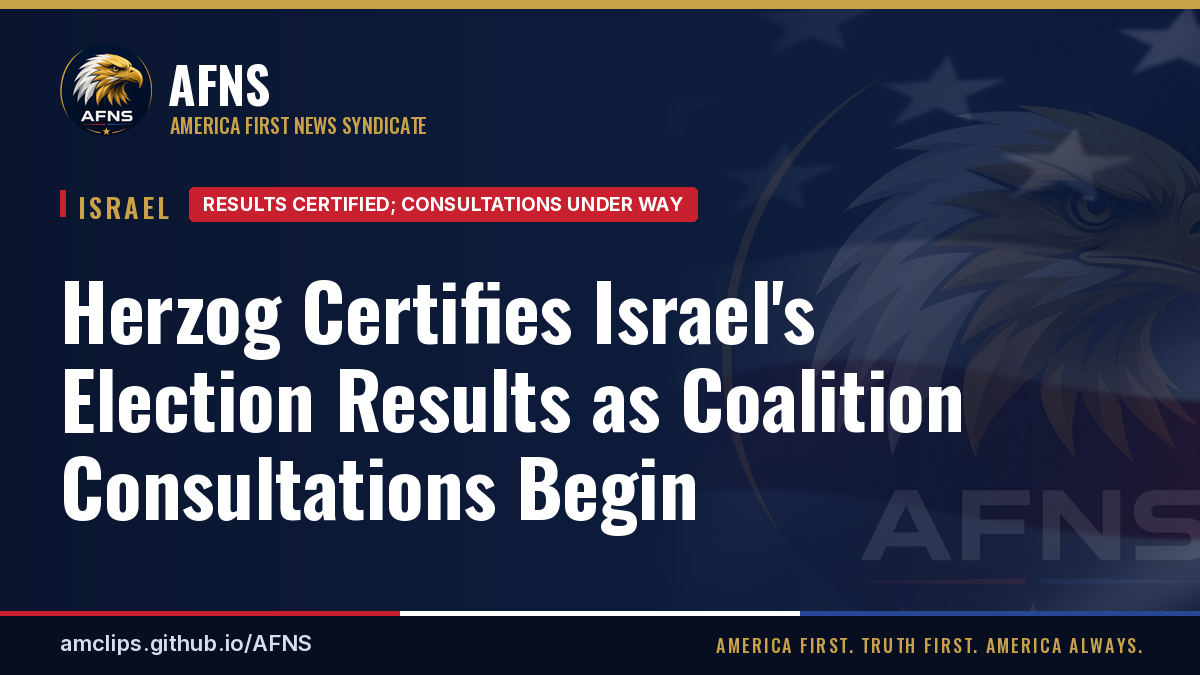
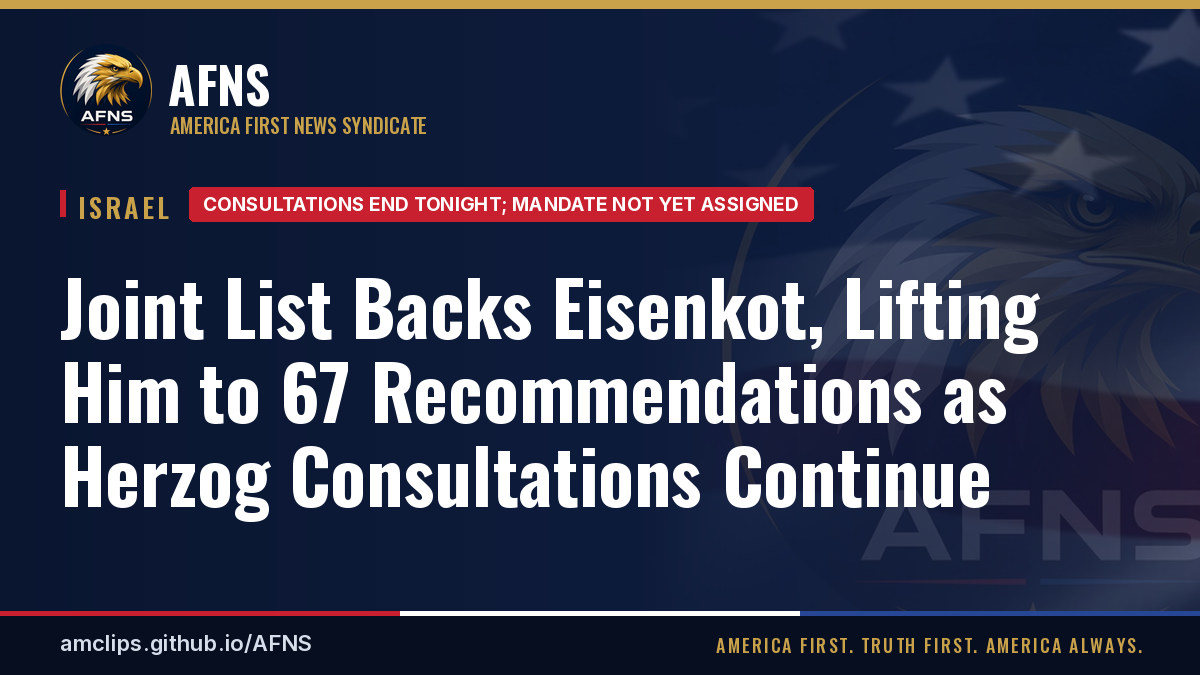
Nov 5 11 AM: Pentagon-ready-for-Iran report, Herzog consultations update, Gaza line (#38)

Changed region(s): [[0.0308, 0.4044, 0.8633, 0.8089], [0.1542, 0.28, 0.6783, 0.3422]]

diff --git a/content/israel/report-pentagon-ready-resume-iran-strikes-if-trump-orders.md b/content/israel/report-pentagon-ready-resume-iran-strikes-if-trump-orders.md
@@ -1,0 +1,45 @@
+---
+title: "Report: Pentagon Ready to Resume Iran Strikes if Trump Orders"
+desk: israel
+date: 2026-11-05
+summary: "The New York Times, citing unnamed Pentagon officials and commanders speaking Wednesday, says thousands of U.S. air and naval forces on more than a dozen ships and at regional and U.S. bases are poised to resume major combat operations against Iran if President Trump orders it. Al Jazeera's live blog carries the report; Iran's foreign minister called Saudi, Omani and Qatari counterparts. Not confirmed by the White House."
+featured: true
+priority: 8
+image: "img/stories/report-pentagon-ready-resume-iran-strikes-if-trump-orders.jpg"
+image_alt: "USS Nimitz (CVN 68) transits the Persian Gulf, Aug. 13, 2013 (file image)"
+image_credit: "U.S. Navy / Wikimedia Commons"
+image_source_url: "https://commons.wikimedia.org/wiki/File%3AThe_aircraft_carrier_USS_Nimitz_%28CVN_68%29_transits_the_Persian_Gulf_Aug._13%2C_2013_130813-N-IB033-444.jpg"
+image_license: "Public domain"
+status: "Reported by NYT via unnamed officials; not confirmed by the White House"
+key_points:
+  - The New York Times, dated Nov. 5, 2026, says Pentagon officials and commanders told the paper Wednesday that U.S. forces are poised to resume major combat against Iran on Trump's orders
+  - Officials, speaking anonymously on operational matters, say U.S. and Israeli plans cover a short, intensive campaign that could hit energy, nuclear, and missile and drone targets
+  - Al Jazeera's Nov. 5 live blog carries the NYT report and says Iran FM Abbas Araghchi held calls with Saudi, Omani and Qatari counterparts amid strike fears
+  - On election night Nov. 4, Trump told Fox News the U.S. had practically wiped Iran out but had not finished the job — quote, maybe I will, maybe I won't
+  - That contrasts with his Financial Times interview saying the U.S. has no immediate plans to strike because, quote, we seem to be getting everything we want
+  - Not confirmed by the White House; no presidential order for renewed major combat has been announced
+sources:
+  - New York Times (via DNYUZ syndication): Political Losses Deepen the Stakes as Trump Contemplates Renewed Iran Attack | https://dnyuz.com/2026/11/05/political-losses-deepen-the-stakes-as-trump-contemplates-renewed-iran-attack/
+  - NYT URL path (Nov. 5, 2026): trump-iran-war-midterm-elections | https://www.nytimes.com/2026/11/05/us/politics/trump-iran-war-midterm-elections.html
+  - Al Jazeera live blog, Nov. 5: Tehran contacts Oman, Qatar and Saudi amid US strike fears | https://www.aljazeera.com/news/liveblog/2026/11/5/iran-war-live-trump-admits-war-caused-election-loss-but-had-to-do-it
+  - JFeed summary of the NYT report | https://www.jfeed.com/news/us-forces-ready-iran-combat-trump-order
+  - Mediaite / Yahoo: Fox News election-night interview with the maybe I will, maybe I won't line | https://www.yahoo.com/news/politics/articles/fox-news-anchor-presses-trump-051901563.html
+  - Fox News live updates, Nov. 4: Trump on further Iran strikes | https://www.foxnews.com/live-news/iran-war-news-trump-elections-oil-prices-november-4
+---
+
+**Status: Reported; not confirmed by the White House.**
+
+The [New York Times](https://www.nytimes.com/2026/11/05/us/politics/trump-iran-war-midterm-elections.html) reported on **Nov. 5, 2026** — citing unnamed Pentagon officials and military commanders who spoke **Wednesday** — that thousands of American air and naval forces on more than a dozen ships and at bases around the Middle East and in the United States are poised to resume major combat operations against Iran if President Donald Trump orders it. [DNYUZ](https://dnyuz.com/2026/11/05/political-losses-deepen-the-stakes-as-trump-contemplates-renewed-iran-attack/) and [JFeed](https://www.jfeed.com/news/us-forces-ready-iran-combat-trump-order) carry the same account. Officials, speaking on condition of anonymity to discuss operational matters, said the U.S. and Israeli militaries have drawn up plans for a short, intensive campaign whose likely targets include energy infrastructure, nuclear facilities, and missile and drone arsenals.
+
+[Al Jazeera's Nov. 5 live blog](https://www.aljazeera.com/news/liveblog/2026/11/5/iran-war-live-trump-admits-war-caused-election-loss-but-had-to-do-it) relays the Times report and says Iranian Foreign Minister Abbas Araghchi held separate calls with his counterparts in Saudi Arabia, Oman and Qatar amid mounting fears of a U.S. attack.
+
+## Trump's conflicting signals
+
+On election night **Nov. 4**, Trump told Fox News (Martha MacCallum and Bret Baier) that the United States had "wiped them out, practically," but had not "finished the job," adding: "maybe I will, maybe I won't" ([Mediaite / Yahoo](https://www.yahoo.com/news/politics/articles/fox-news-anchor-presses-trump-051901563.html), [Fox News live](https://www.foxnews.com/live-news/iran-war-news-trump-elections-oil-prices-november-4)). That sits alongside his earlier Financial Times interview remark that the United States has no immediate plans to strike Iran because "we seem to be getting everything we want."
+
+**No White House confirmation** of a decision to resume major combat has been issued. Limited U.S. strikes on Iranian missiles around Qeshm Island earlier this week were described by U.S. officials as defensive, not a return to major operations. Related: [U.S. Officials: Limited 'Defensive' Strikes Hit Iranian Missiles on Qeshm Island](/israel/report-us-strikes-iranian-missile-launcher-qeshm-island/).
+
+## Related
+
+- [Report: U.S. Tells Gulf States to Prepare for Iran Campaign After Midterms as Regional Powers Talk in Tehran](/israel/us-israel-signal-iran-campaign-after-midterms-tehran-talks/)
+- [Vance Says Iran War Cost Republicans the Midterms](/israel/vance-says-iran-war-cost-republicans-midterms-cites-israel-relationship/)

diff --git a/content/israel/israel-briefing-2026-11-05.md b/content/israel/israel-briefing-2026-11-05.md
@@ -16,8 +16,13 @@ key_points:
   - Trump says ~$4B a year in U.S. military aid stops after this year; AP and Reuters say an abrupt cutoff is unlikely without Congress (see linked story)
   - WSJ reports small unpublicized U.S. strikes on Iran, including Qeshm; Trump told the FT he has no plans to strike (JINSA, AP)
   - Election officials reject Netanyahu's claim Qatar stole the election; Ayman Odeh is suspected of receiving foreign funds (American Israelite, Jerusalem Post)
+  - UPDATE 11 AM CT - At least four killed in central/southern Gaza Thursday, including a child in Bureij (medical sources via Al Jazeera)
+  - UPDATE 11 AM CT - Likud/Yashar meet Herzog tonight; Reuters deadline Nov. 11; see Herzog story
   - UPDATE 9 AM CT - Joint List recommendation lifts Eisenkot to 67 vs 46 (Ynet); see Herzog story
 sources:
+  - Al Jazeera: Four people including a child killed in Israeli attacks on Gaza | https://www.aljazeera.com/news/2026/11/5/four-people-including-a-child-killed-in-israeli-attacks-on-gaza
+  - Jerusalem Post: Eisenkot expected to secure mandate | https://www.jpost.com/israel-election-2026/article-913989
+  - Reuters via StreetInsider: Herzog deadline Nov. 11 | https://www.streetinsider.com/Reuters/Netanyahus+position+weakens+as+ultra-Orthodox+party+withholds+support/27293802.html
   - Jerusalem Post: Election live updates, Nov. 5 | https://www.jpost.com/israel-election-2026/2026-11-05/live-updates-913880
   - Reuters: Trump says U.S. will stop paying Israel after year-end | https://www.reuters.com/5f374b32b07b/world/middle-east/trump-says-us-will-stop-paying-israel-after-year-end-2026-11-03/
   - AP: Trump Israel military aid | https://apnews.com/article/trump-israel-military-aid-hardware-5cad93330300b2d45a9665d5eccb2ab2
@@ -33,7 +38,9 @@ sources:
 
 **Status: Daily briefing.** Each item names its source.
 
-**Update, 9 AM CT:** The Joint List recommended Eisenkot, lifting him to 67 recommendations vs 46 for Netanyahu (Ynet). Details: [Joint List Backs Eisenkot, Lifting Him to 67 Recommendations as Herzog Consultations Continue](/israel/herzog-certifies-election-results-coalition-consultations-begin/).
+**Update, 11 AM CT:** Medical sources told Al Jazeera that Israeli strikes and gunfire killed at least four Palestinians in central and southern Gaza on Thursday, including a child in Bureij ([Al Jazeera](https://www.aljazeera.com/news/2026/11/5/four-people-including-a-child-killed-in-israeli-attacks-on-gaza)).
+
+**Update, 9 AM CT:** The Joint List recommended Eisenkot, lifting him to 67 recommendations vs 46 for Netanyahu (Ynet). Details: [Joint List Backs Eisenkot, Lifting Him to 67 Recommendations as Herzog Consultations Continue](/israel/herzog-certifies-election-results-coalition-consultations-begin/). Also: [Herzog 11 AM update — consultations end tonight](/israel/herzog-certifies-election-results-coalition-consultations-begin/).
 
 For the full consultation timeline, see [Joint List Backs Eisenkot, Lifting Him to 67 Recommendations as Herzog Consultations Continue](/israel/herzog-certifies-election-results-coalition-consultations-begin/).
 
@@ -46,6 +53,8 @@ Mansour Abbas told President Herzog that Ra'am fully supports Trump's Gaza peace
 Trump says roughly $4 billion a year in U.S. military aid to Israel stops after this year, that arms sales continue, and that Netanyahu agreed ([Reuters](https://www.reuters.com/5f374b32b07b/world/middle-east/trump-says-us-will-stop-paying-israel-after-year-end-2026-11-03/), [AP](https://apnews.com/article/trump-israel-military-aid-hardware-5cad93330300b2d45a9665d5eccb2ab2), [NY Post](https://nypost.com/2026/11/04/us-news/us-to-withdraw-4b-in-israel-aid-as-trump-weighs-next-move-in-iran-war/)). The current agreement runs to September 2028, so AP and Reuters say an abrupt cutoff is unlikely without Congress. A U.S. official told the NY Post the phase-down was negotiated for months and could begin in October 2027. Full story: [Report: Trump Says U.S. Military Aid to Israel Will End This Year](/israel/report-trump-says-us-military-aid-israel-will-end-this-year/).
 
 ## Iran: quiet small strikes while talks drag on
+
+**Update, 11 AM CT:** The New York Times reports U.S. forces are poised to resume major combat against Iran if Trump orders it (unnamed Pentagon officials; not confirmed by the White House). Full story: [Report: Pentagon Ready to Resume Iran Strikes if Trump Orders](/israel/report-pentagon-ready-resume-iran-strikes-if-trump-orders/).
 
 The Wall Street Journal has reported that the U.S. carried out small, unpublicized airstrikes on Iran, including on Qeshm Island on Nov. 2 ([JINSA update](https://jinsa.org/wp-content/uploads/2026/11/Iran-War-Update-11.4.26.pdf), [AP](https://apnews.com/article/mideast-news-november-3-2026-9ae5cec3d1f9cde02652f52f7f80fbce)). Trump told the Financial Times he has no plans to strike Iran because "we seem to be getting everything we want." Qatar is still mediating; Iran wants China to guarantee any deal. U.S. officials remain skeptical of Israel's chemical-weapons warning. Related: [U.S. Officials: Limited 'Defensive' Strikes Hit Iranian Missiles on Qeshm Island](/israel/report-us-strikes-iranian-missile-launcher-qeshm-island/).
 

diff --git a/content/israel/herzog-certifies-election-results-coalition-consultations-begin.md b/content/israel/herzog-certifies-election-results-coalition-consultations-begin.md
@@ -2,7 +2,7 @@
 title: "Joint List Backs Eisenkot, Lifting Him to 67 Recommendations as Herzog Consultations Continue"
 desk: israel
 date: 2026-11-05
-summary: "Updated 9 AM CT Nov. 5: The Joint List (11 seats) says it will recommend Gadi Eisenkot to form the next government, bringing him to 67 recommendations vs 46 for Netanyahu, past the 61 majority mark, Ynet reports. Herzog has not assigned the mandate and no coalition is agreed; reports that he could task Eisenkot as soon as this evening are unconfirmed. "
+summary: "Updated 11 AM CT Nov. 5: Likud and Yashar meet Herzog tonight, ending consultations; Reuters says he has until Nov. 11 to assign the mandate. Eisenkot backers include Yisrael Beytenu, Democrats, Ra'am, Joint List and Bennett's B'Yachad; Netanyahu has Religious Zionism-Zehut, Shas and Otzma Yehudit; UTJ recommended nobody. JPost expects Eisenkot to get the mandate; it is not yet assigned. Reported tally remains 67-46 pending Likud and Yashar. "
 featured: true
 priority: 11
 desk_lead: true
@@ -11,8 +11,10 @@ image_alt: "The Knesset building in Jerusalem (file image)"
 image_credit: "Gary Todd / Wikimedia Commons"
 image_source_url: "https://commons.wikimedia.org/wiki/File%3AKnesset_Israeli_Parliament_Building_%2841404895850%29.jpg"
 image_license: "CC0"
-status: "Ynet: Joint List recommendation; mandate not yet assigned"
+status: "Consultations end tonight; mandate not yet assigned"
 key_points:
+  - UPDATE NOV. 5, 11 AM CT - Likud and Yashar meet Herzog tonight, ending consultations; Reuters: deadline Nov. 11; JPost expects Eisenkot to get the mandate, not yet assigned; tally 67-46 pending Likud/Yashar
+  - UPDATE NOV. 5, 11 AM CT - Eisenkot backers: Yisrael Beytenu, Democrats, Ra'am, Joint List, Bennett's B'Yachad; Netanyahu: Religious Zionism-Zehut, Shas, Otzma Yehudit; UTJ recommended nobody (JPost, Reuters)
   - UPDATE NOV. 5, 9 AM CT - Joint List (11 seats) will recommend Eisenkot, bringing him to 67 recommendations vs 46 for Netanyahu, past the 61 majority (Ynet); Herzog has not assigned the mandate; no coalition agreed
   - UPDATE NOV. 5 - Earlier day-two tally was 56 for Eisenkot and 46 for Netanyahu after UTJ recommended nobody (Times of Israel); 56 + 11 = 67
   - UPDATE NOV. 4, 3 PM CT - Ra'am said it would recommend Eisenkot (Ynet, Times of Israel); ToI's mid-consultation tally that day was 56 for Eisenkot and 53 for Netanyahu before UTJ's abstention
@@ -23,6 +25,8 @@ key_points:
   - The designee gets 28 days to form a government, with a possible 14-day extension
   - The attorney general rejected Shin Bet chief Zini's request to question MKs Mansour Abbas and Ahmad Tibi; JPost says Zini appears to be backing off
 sources:
+  - Jerusalem Post: Eisenkot expected to secure mandate as Herzog finishes meetings | https://www.jpost.com/israel-election-2026/article-913989
+  - Reuters via StreetInsider: Herzog has until Nov. 11; Likud and Yashar meet tonight | https://www.streetinsider.com/Reuters/Netanyahus+position+weakens+as+ultra-Orthodox+party+withholds+support/27293802.html
   - Ynet: Joint List officially announces it will recommend Eisenkot, bringing him to 67 | https://www.ynetnews.com/article/ea4mo8z60
   - Ynet: Eisenkot secures 67 endorsements after Joint List says it will back him | https://www.ynetnews.com/article/rydawnytgl
   - Anadolu: Eisenkot set to secure 67 recommendations after Joint List announces support | https://aa.com.tr/en/middle-east/israel-s-eisenkot-set-to-secure-67-recommendations-after-arab-joint-list-announces-support/4113117
@@ -42,6 +46,18 @@ sources:
   - Ynet: Change bloc backs Eisenkot | https://www.ynetnews.com/article/h1n0nndtme
   - Jerusalem Post: Election live updates, Nov. 4 | https://www.jpost.com/israel-election-2026/2026-11-04/live-updates-913771
 ---
+
+## Update, Nov. 5, 11 AM CT
+
+Likud and Yashar are scheduled to meet President Herzog **tonight**, wrapping up the consultation round that began Wednesday ([Reuters via StreetInsider](https://www.streetinsider.com/Reuters/Netanyahus+position+weakens+as+ultra-Orthodox+party+withholds+support/27293802.html), [Jerusalem Post](https://www.jpost.com/israel-election-2026/article-913989)). Reuters says Herzog has until **Nov. 11** to choose who gets the first chance to form a government.
+
+**Backers reported so far (JPost, Reuters):**
+- **Eisenkot:** Yisrael Beytenu, the Democrats, Ra'am, the Joint List, and Naftali Bennett's B'Yachad
+- **Netanyahu:** Religious Zionism-Zehut, Shas, and Otzma Yehudit
+- **UTJ:** recommended nobody
+
+The Jerusalem Post says Eisenkot is **expected** to receive the presidential mandate. **Herzog has not assigned it.** The reported recommendation tally remains **67 for Eisenkot and 46 for Netanyahu**, pending tonight's Likud and Yashar meetings. Recommendations are not a coalition.
+
 
 ## Update, Nov. 5, 9 AM CT
 
